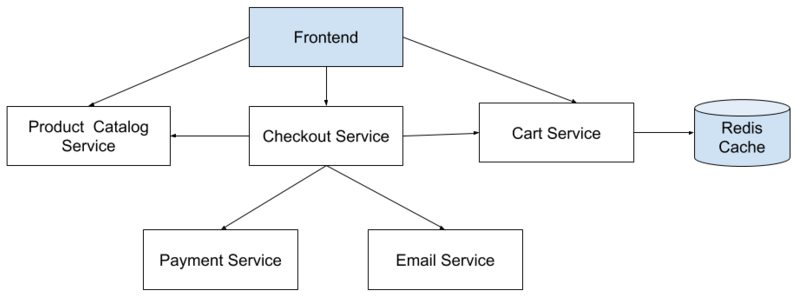
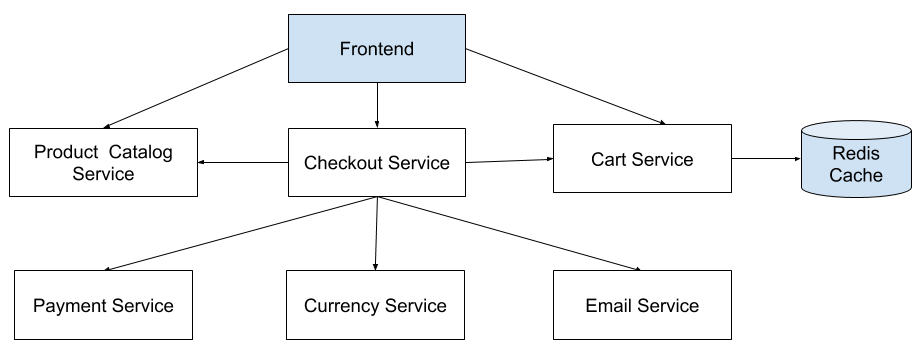
Add proto files

diff --git a/README.md b/README.md
@@ -98,6 +98,16 @@ Your task is to implement the above services using Ballerina and to write unit t
 |-----------------|--------------------------------------------------------|-----------------------------------|
 | Checkout cart   | - Credit card number<br>- Amount<br>- Shipping Address | Order ID/Transaction failed error |
 
+##### 6. Currency Service
+
+**Description:** Converts one money amount to another currency. Uses real values fetched from the https://api.exchangeratesapi.io API
+
+**Resource Implementation:**
+
+| Resource (API)  | Request inputs (Query parameters)   | Response       |
+|-----------------|-------------------------------------|----------------|
+| Convert         | - to <br> -from                     | Converted rate |
+
  
 #### References
 
